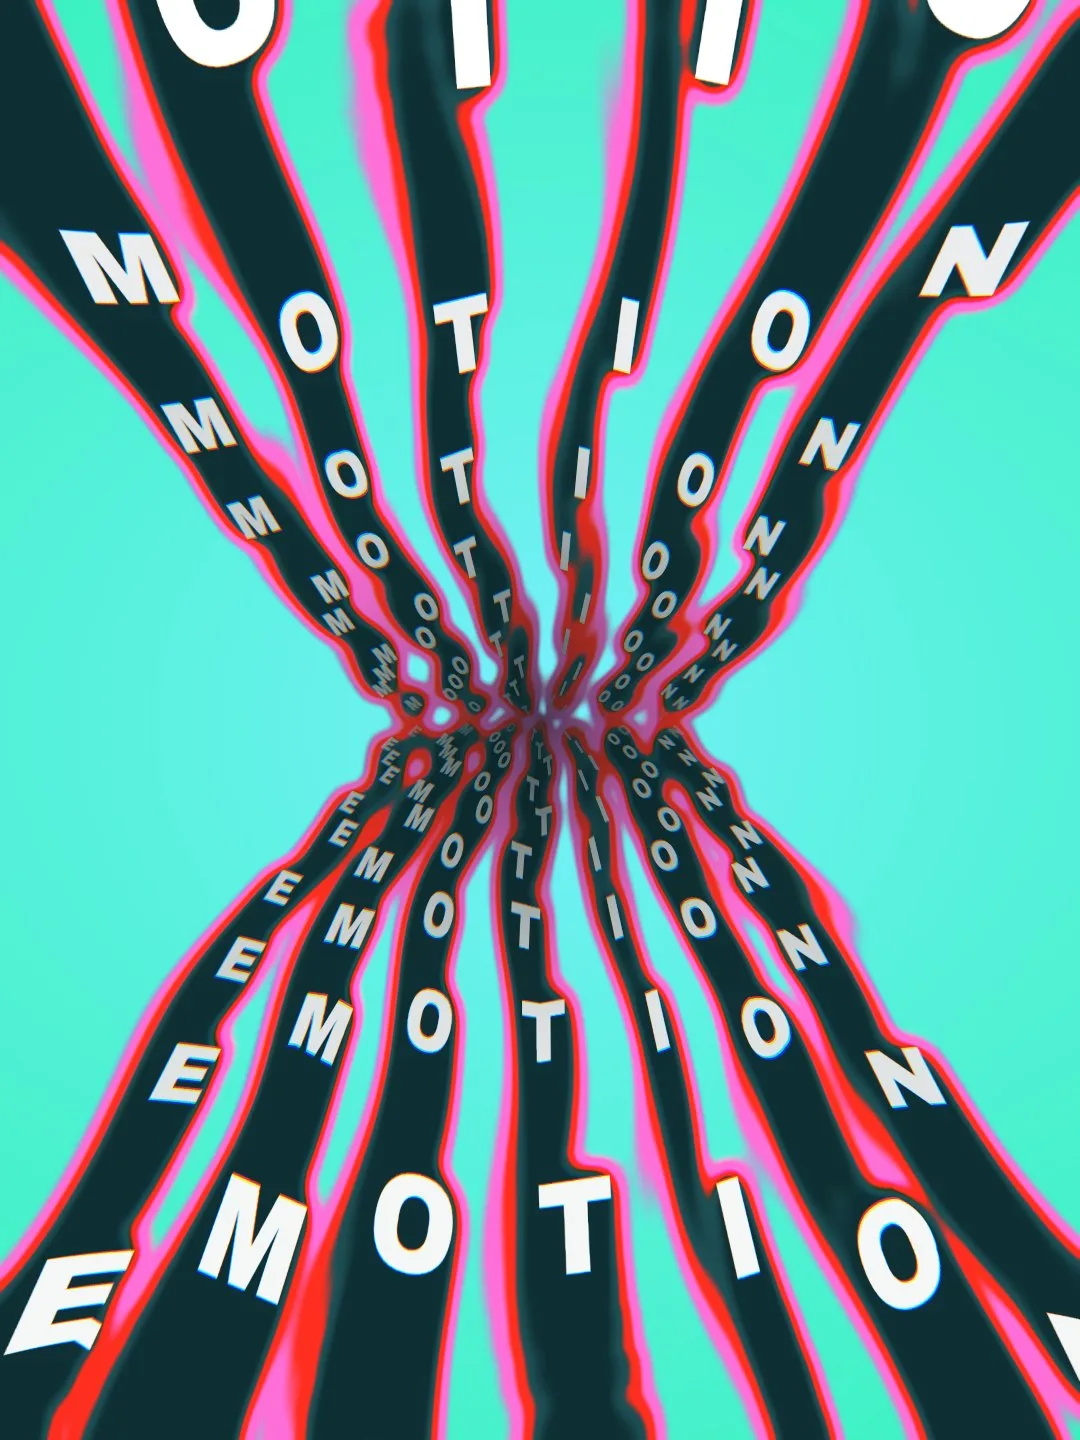
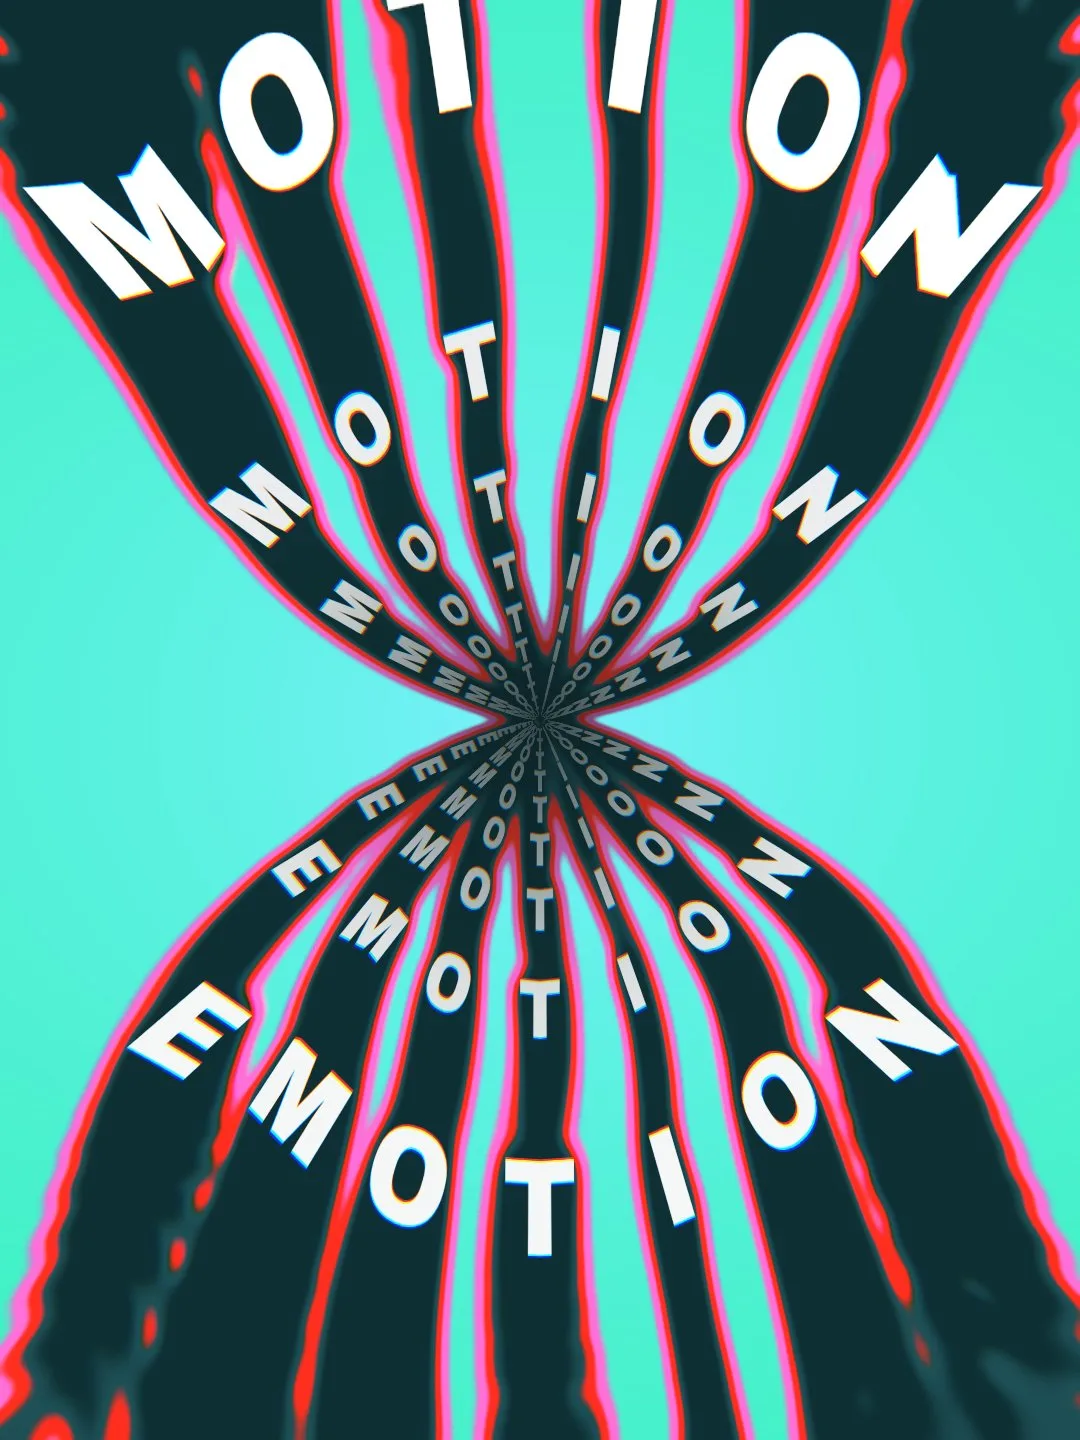
Cascada: palabras en orden sobre arcos que cierran en círculo
Cada palabra se reparte en orden sobre un arco centrado en el punto de
fuga (bóveda arriba, sonrisa abajo). Al meterse el arco se abre hasta
casi media vuelta, así arriba y abajo cierran un círculo que se encoge
hasta el punto. La letra se ajusta al largo del arco para no montarse.
Sliders de bóveda y apertura del arco; el escalonado queda en 0.

Claude-Session: https://claude.ai/code/session_015Ei6rHsFw59uM8Du1i9p5m

diff --git a/public/tools/cascada/sketch.js b/public/tools/cascada/sketch.js
@@ -36,7 +36,7 @@ const P = {
   filas: 11,          // filas por cascada
   duracion: 8,        // segundos del loop (lo que tarda una fila en ir del borde al fondo)
   desfase: 0.5,       // corrimiento entre la cascada de arriba y la de abajo (en filas)
-  escalon: 0.5,       // corre cada fila una fracción de letra: rompe las columnas
+  escalon: 0,         // corre cada fila una fracción de letra: rompe las columnas
   ondas: 0,           // ondulación de las letras dentro de la fila (px)
 
   profundidad: 7,     // qué tan lejos queda el fondo: más = se mete más y se frena más
@@ -50,7 +50,10 @@ const P = {
   estrechez: 0.55,    // ancho de cada letra en el fondo (1 = sin estrechar)
   anchoLetra: 1.15,   // ancho general de las letras
   curvatura: 120,     // las letras de las puntas se alejan del centro (fila en arco)
-  giro: 0.5,          // giro radial: las letras se orientan hacia afuera del punto de fuga
+  giro: 0.5,          // giro radial: las letras se orientan hacia afuera del punto de fuga (filas rectas)
+  arco: 1,            // 1 = cada palabra va en un arco alrededor del punto de fuga (bóveda); 0 = filas rectas
+  arcoEntrada: 78,    // apertura del arco al entrar (grados): bóveda suave
+  arcoFondo: 176,     // apertura del arco en el fondo: arriba + abajo cierran un círculo
   niebla: 0.45,       // las letras lejanas se apagan hacia el color de sombra
 
   estelaLargo: 0.2,   // largo de la estela (fracción del recorrido). Negativo = hacia el centro
@@ -69,7 +72,7 @@ const P = {
   mouse: false,       // el punto de fuga sigue al mouse (solo vista previa)
 
   ojo: 0.7,           // lente ojo de pez: agranda y dobla los bordes, comprime el centro
-  lateral: 0.55,      // concentra la lente en los costados (0 = pareja en todas direcciones)
+  lateral: 0.3,       // concentra la lente en los costados (0 = pareja en todas direcciones)
   aberracion: 0.3,    // separación de color en los bordes de la lente
   hue: 0,             // giro de tono de toda la imagen (grados)
 
@@ -158,16 +161,31 @@ function letras(fase, W, H, cx, cy, k, atras = 0) {
       const sx = P.anchoLetra * lerpN(P.estrechez, 1, Math.min(1, p));
       // cada fila se corre una fracción distinta de letra (razón áurea)
       const corr = n > 1 ? (frac(i * 0.618034) - 0.5) * P.escalon * 2 / (n - 1) : 0;
+      /* Arco: la palabra se reparte sobre un arco de círculo centrado en el
+         punto de fuga, en orden de izquierda a derecha. Arriba es una bóveda
+         (∩), abajo una sonrisa (∪). El arco se abre hasta casi media vuelta
+         al meterse, así arriba y abajo cierran un círculo que se encoge
+         hasta el punto. La letra se achica si no cabe en el arco. */
+      const ar = clamp01(P.arco);
+      const span = lerpN(P.arcoFondo, P.arcoEntrada, Math.min(1, p)) * Math.PI / 180;
+      const cabe = (d * span / Math.max(1, n)) / (0.78 * sx);
+      const tamL = ar > 0 ? lerpN(tam, Math.min(tam, cabe), ar) : tam;
       for (let j = 0; j < n; j++) {
         const ch = pal[j];
         if (ch === ' ') continue;
         const u = (n > 1 ? (j / (n - 1)) * 2 - 1 : 0) + corr;
-        let y = d + P.curvatura * p * u * u;
-        if (P.ondas) y += P.ondas * p * Math.sin(TAU * ((fase - atras) * 2 + j / n + i / N));
-        const x = cx + u * ancho / 2 * k;
-        const yy = cy + m.dir * y * k;
-        const rot = -m.dir * P.giro * Math.atan2(x - cx, Math.abs(yy - cy) + 1e-3);
-        out.push({ x, y: yy, sc: tam * k / FS, sx, rot, ch, a, p });
+        const ola = P.ondas ? P.ondas * p * Math.sin(TAU * ((fase - atras) * 2 + j / n + i / N)) : 0;
+        // fila recta (como antes)
+        const xr = cx + u * ancho / 2 * k;
+        const yr = cy + m.dir * (d + P.curvatura * p * u * u + ola) * k;
+        const rr = -m.dir * P.giro * Math.atan2(xr - cx, Math.abs(yr - cy) + 1e-3);
+        // arco alrededor del punto de fuga
+        const th = u * span / 2 * (n > 1 ? (n - 1) / n : 1);
+        const R = (d + ola) * k;
+        const xa = cx + R * Math.sin(th);
+        const ya = cy + m.dir * R * Math.cos(th);
+        const ra = -m.dir * th;
+        out.push({ x: lerpN(xr, xa, ar), y: lerpN(yr, ya, ar), sc: tamL * k / FS, sx, rot: lerpN(rr, ra, ar), ch, a, p });
       }
     }
   }

diff --git a/public/tools/cascada.html b/public/tools/cascada.html
@@ -732,7 +732,7 @@ html.glam-alt, html.glam-alt body, html.glam-alt #frame, html.glam-alt .tss{back
 
             <div class="y-sec">perspectiva</div>
             <div id="slPersp"></div>
-            <div class="y-hint">perspectiva real: entra grande y rápida por el borde, se frena y se estrecha al meterse al fondo</div>
+            <div class="y-hint">cada palabra entra en orden sobre un arco · al meterse el arco se cierra en un círculo que se va al punto de fuga</div>
           </div>
         </div>
 
@@ -874,11 +874,14 @@ slider('slPersp','camara','Zoom en Z (cámara)',-1.5,0.9,0.01);
 slider('slPersp','niebla','Niebla por profundidad',0,1,0.01);
 slider('slPersp','tamEntrada','Tamaño al entrar',40,480,1);
 slider('slPersp','tamCentro','Tamaño en el fondo',2,160,1);
-slider('slPersp','abEntrada','Apertura al entrar',100,3000,10);
-slider('slPersp','abCentro','Apertura en el fondo',0,800,1);
+slider('slPersp','abEntrada','Ancho al entrar (filas rectas)',100,3000,10);
+slider('slPersp','abCentro','Ancho en el fondo (filas rectas)',0,800,1);
 slider('slPersp','curvaAbertura','Curva de cierre',0.2,3,0.05);
 slider('slPersp','estrechez','Estrechez en el fondo',0.05,1.5,0.01);
 slider('slPersp','anchoLetra','Ancho de letra',0.4,2.2,0.01);
+slider('slPersp','arco','Bóveda (arco al punto de fuga)',0,1,0.01);
+slider('slPersp','arcoEntrada','Apertura del arco al entrar (°)',10,180,1);
+slider('slPersp','arcoFondo','Apertura del arco en el fondo (°)',10,180,1);
 slider('slPersp','curvatura','Curvatura de fila',-400,500,1);
 slider('slPersp','giro','Giro radial',0,1.5,0.01);
 slider('slPersp','entrada','Nace fuera del cuadro',0,500,1);
